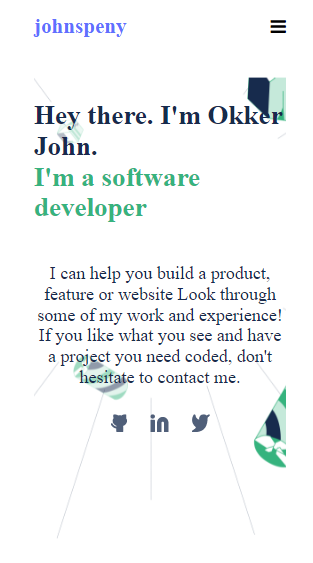
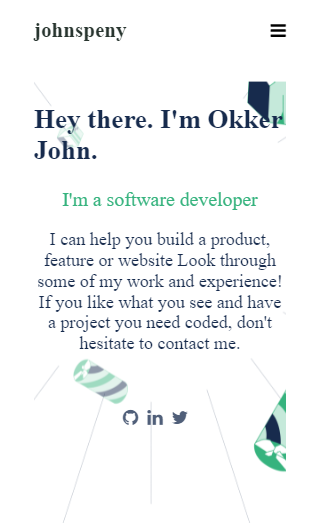
Refactor readme file, include images in html file

diff --git a/style.css b/style.css
@@ -84,7 +84,6 @@ body {
 .work__section > h1 {
   color: #172b4d;
   text-align: center;
-  font-family: Inter;
   font-style: normal;
   font-weight: bold;
   font-size: 40px;
@@ -95,7 +94,6 @@ body {
   padding: 0%;
   list-style-type: none;
   padding-bottom: 10px;
-
 }
 
 .card {
@@ -117,11 +115,10 @@ body {
 
 .work__language p {
   justify-content: center;
-  background-color: #EBF0EE;
+  background-color: #ebf0ee;
   border-radius: 4px;
   padding: 6px;
   font-size: 12px;
-  font-family: Inter;
   font-style: normal;
   font-weight: 600;
   line-height: 16px;
@@ -139,7 +136,6 @@ body {
 }
 
 .card > h2 {
-  font-family: Inter;
   font-style: normal;
   font-weight: 600;
   font-size: 24px;
@@ -174,11 +170,11 @@ body {
 }
 
 .cardW {
-  background-color: #EBF0EE;
+  background-color: #ebf0ee;
 }
 
 .langW > p {
-  background-color: #FFFFFF;
+  background-color: #fff;
 }
 
 .headline__form > span {
@@ -192,7 +188,6 @@ body {
 }
 
 .aboutme__section > .headline__inner > span > button {
-  font-family: Inter;
   font-style: normal;
   font-size: 18px;
   color: white;
@@ -255,7 +250,6 @@ input {
 }
 
 .headline__contact > h2 {
-  font-family: Inter;
   font-style: normal;
   font-weight: bold;
   font-size: 40px;
@@ -265,17 +259,17 @@ input {
 }
 
 .headline__contact > h3 {
-  font-family: Inter;
   font-style: normal;
   font-weight: normal;
   font-size: 20px;
   line-height: 32px;
   text-align: center;
-  color: #172B4D;
+  color: #172b4d;
 }
 
-
-input[type=text], input[type=email], textarea {
+input[type=text],
+input[type=email],
+textarea {
   width: 100%;
   padding: 12px 20px;
   margin: 8px 0;
@@ -287,6 +281,8 @@ input[type=text], input[type=email], textarea {
   border-radius: 4px;
 }
 
-input[type=text]:focus, input[type=email]:focus, textarea:focus {
+input[type=text]:focus,
+input[type=email]:focus,
+textarea:focus {
   border: 3px solid #36b37f;
 }
